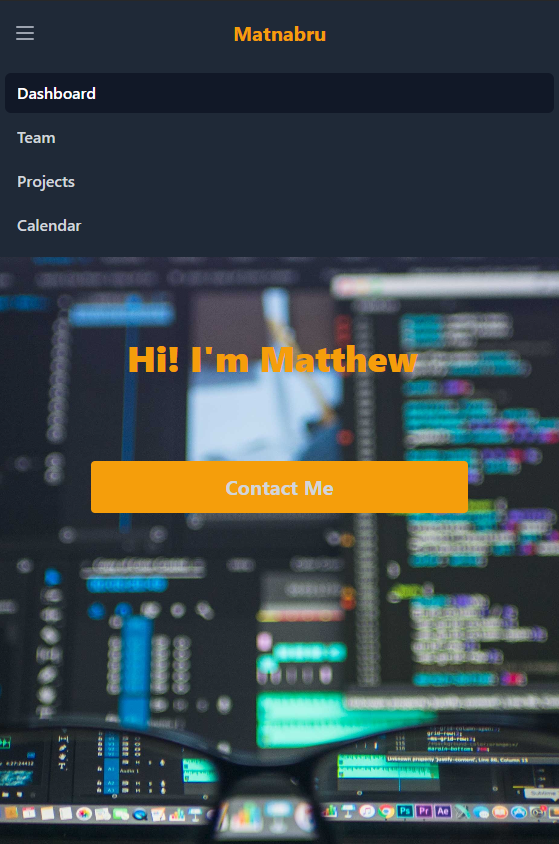
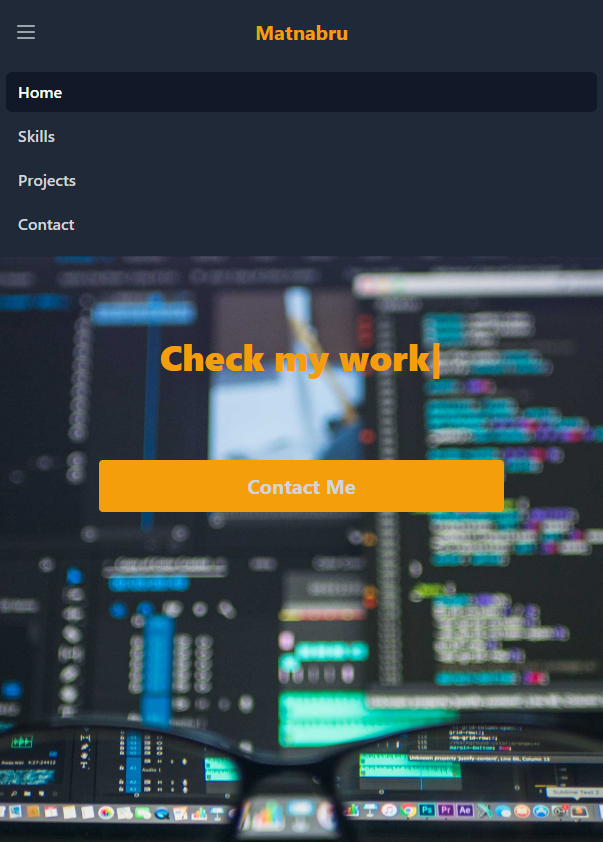
Added email validator and contact me container

diff --git a/src/components/ContactUs.js b/src/components/ContactUs.js
@@ -1,0 +1,55 @@
+import React, {useState} from 'react';
+import emailjs from 'emailjs-com';
+
+export default function ContactUs() {
+    const [email,setEmail] = useState('');
+    const [name,setName] = useState('');
+    const [message,setMessage] = useState('')
+
+    function sendEmail(e) {
+        e.preventDefault();
+
+        if(!email || !name || !message){
+            alert("Please fill everything.");
+        }else {
+            emailjs.sendForm('service_kn3qj35', 'template_9tvldxr', e.target, 'user_zB5ezs8dxNuwxA7UBawR3')
+                .then((result) => {
+                    console.log(result.text);
+                }, (error) => {
+                    console.log(error.text);
+                });
+            setMessage('');
+            setEmail('');
+            setName('');
+        }
+    }
+    return (
+        <div className={"bg-gray-600"}>
+            <div className="w-8/12 ml-auto mr-auto pt-10">
+                <form className="bg-white shadow-md rounded px-8 pt-6 pb-8 mb-4" onSubmit={sendEmail}>
+                    <div className={"text-center text-5xl font-bold text-yellow-500"}>
+                        <a>Contact me</a>
+                    </div>
+                    <div className={"mb-4"}>
+                        <input type="hidden" name="contact_number" />
+                    </div>
+                    <div className={"mb-6"}>
+                        <input value={name} onChange={(e) => setName(e.target.value)} placeholder={"Name"} className="shadow appearance-none border rounded w-full py-2 px-3 text-gray-700 leading-tight focus:outline-none focus:shadow-outline" type="text" name="user_name" />
+                    </div>
+                    <div className={"mb-6"}>
+                        <input value={email} onChange={(e) => setEmail(e.target.value)} placeholder={"Your Email"} type="email" name="user_email" className="shadow appearance-none border rounded w-full py-2 px-3 text-gray-700 leading-tight focus:outline-none focus:shadow-outline" />
+                    </div>
+                    <div className={"mb-6"}>
+                        <textarea value={message} onChange={(e) => setMessage(e.target.value)} placeholder={"Message"} className="shadow appearance-none border rounded w-full py-2 px-3 text-gray-700 leading-tight focus:outline-none focus:shadow-outline" name="message" />
+                    </div>
+                    <div className="flex items-center justify-between">
+                        <input className={"bg-yellow-500 hover:bg-blue-700 text-white font-bold py-2 px-4 rounded focus:outline-none focus:shadow-outline"}  type="submit" value="Send" />
+                    </div>
+                </form>
+                <p className="pb-1 text-center text-gray-300 text-xs">
+                    &copy;2021 Matnabru.
+                </p>
+            </div>
+        </div>
+    );
+}

diff --git a/src/components/Navbar.js b/src/components/Navbar.js
@@ -31,15 +31,13 @@ const Navbar = () => {
 
                                 <svg className="block h-6 w-6" xmlns="http://www.w3.org/2000/svg" fill="none"
                                      viewBox="0 0 24 24" stroke="currentColor" aria-hidden="true">
-                                    <path stroke-linecap="round" stroke-linejoin="round" stroke-width="2"
-                                          d="M4 6h16M4 12h16M4 18h16"/>
+                                    <path d="M4 6h16M4 12h16M4 18h16"/>
                                 </svg>
 
 
                                 <svg className="hidden h-6 w-6" xmlns="http://www.w3.org/2000/svg" fill="none"
                                      viewBox="0 0 24 24" stroke="currentColor" aria-hidden="true">
-                                    <path stroke-linecap="round" stroke-linejoin="round" stroke-width="2"
-                                          d="M6 18L18 6M6 6l12 12"/>
+                                    <path d="M6 18L18 6M6 6l12 12"/>
                                 </svg>
                             </button>
                         </div>
@@ -70,16 +68,16 @@ const Navbar = () => {
                 <div className="sm:hidden" id="mobile-menu">
                     <div className="px-2 pt-2 pb-3 space-y-1">
                         <a href="#" className="bg-gray-900 text-white block px-3 py-2 rounded-md text-base font-medium"
-                           aria-current="page">Dashboard</a>
+                           aria-current="page">Home</a>
 
                         <a href="#"
-                           className="text-gray-300 hover:bg-gray-700 hover:text-white block px-3 py-2 rounded-md text-base font-medium">Team</a>
+                           className="text-gray-300 hover:bg-gray-700 hover:text-white block px-3 py-2 rounded-md text-base font-medium">Skills</a>
 
                         <a href="#"
                            className="text-gray-300 hover:bg-gray-700 hover:text-white block px-3 py-2 rounded-md text-base font-medium">Projects</a>
 
                         <a href="#"
-                           className="text-gray-300 hover:bg-gray-700 hover:text-white block px-3 py-2 rounded-md text-base font-medium">Calendar</a>
+                           className="text-gray-300 hover:bg-gray-700 hover:text-white block px-3 py-2 rounded-md text-base font-medium">Contact</a>
                     </div>
                 </div>
             </nav>

diff --git a/src/components/Header.js b/src/components/Header.js
@@ -17,7 +17,7 @@ const Header = () => {
                 <div className={"grid  text-center"}>
                     <ReactTyped
                         className={"text-yellow-500 font-extrabold text-4xl lg:text-6xl w-8/12 lg:w-5/12 ml-auto mt-20 pb-20 mr-auto"}
-                        strings={["Hi! I'm Matthew","Aspiring Dev","CS Freshman"]}
+                        strings={["Hi! I'm Mateusz","Aspiring Dev","CS Freshman","Check my work"]}
                         typeSpeed={40}
                         backSpeed={60}
                         loop

diff --git a/src/components/Projects.js b/src/components/Projects.js
@@ -8,7 +8,7 @@ import loancalculatorImg from "../images/loancalculator.png"
 import tictactoeImg from "../images/tic-tac-toe.png"
 const Projects = () => {
     return(
-        <div className={"pt-5 pb-10 bg-gray-800"}>
+        <div className={"pt-5 pb-10 bg-gray-600"}>
             <div className={"grid text-center pt-5 mb-5"}>
                 <a className={"font-bold text-yellow-500 text-5xl"}>Projects</a>
             </div>

diff --git a/src/App.js b/src/App.js
@@ -2,7 +2,7 @@ import Navbar from "./components/Navbar"
 import Header from "./components/Header";
 import Skills from "./components/Skills";
 import Projects from "./components/Projects";
-
+import ContactUs from "./components/ContactUs";
 function App() {
   return (
     <div className="App">
@@ -10,6 +10,7 @@ function App() {
         <Header/>
         <Skills/>
         <Projects/>
+        <ContactUs/>
     </div>
   );
 }
